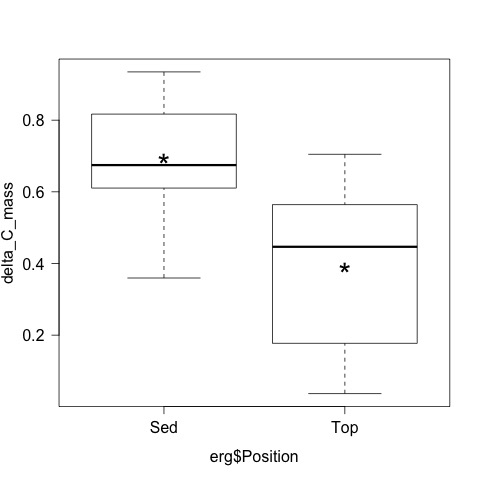
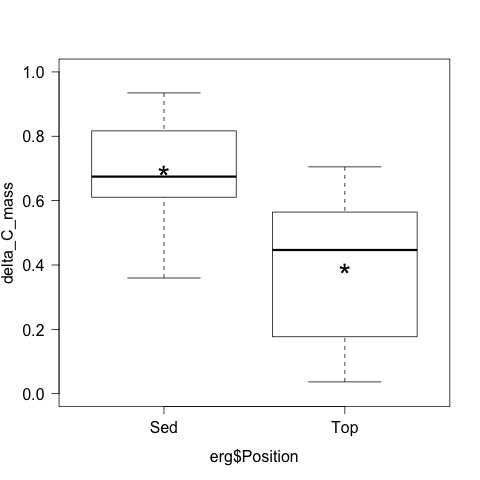
investigated the difference between AFDM loss and leaf C loss

diff --git a/lab_notebook/analysis/Ergosterol_analysis.md b/lab_notebook/analysis/Ergosterol_analysis.md
@@ -202,7 +202,8 @@ $Top
   1.920   2.315   2.580   2.677   3.125   3.540  0.5362904 
 
 ~~~~
- 
+
+
 The C mass of the leaf discs at the end of the experiment is estimated by the % C of the leaves after to incubation and the mass of the leaves after incubation
 
 To complete this calculation, I need a treatment level variable for the cn data.frame
@@ -211,8 +212,8 @@ To complete this calculation, I need a treatment level variable for the cn data.
 
 I now calculate mass of C for each treatment level:
 
-    disc_C_mass_final_TOP <- erg$AFDM[erg$Position == "Top"] * (cn$percC[cn.position == "top"]) / 100 # convert to proportion
-    disc_C_mass_final_SED <- erg$AFDM[erg$Position == "Sed"] * (cn$percC[cn.position == "sed"]) / 100
+    disc_C_mass_final_TOP <- erg$AFDM[erg$Position == "Top"] * ((cn$percC[cn.position == "top"]) / 100) # convert to proportion
+    disc_C_mass_final_SED <- erg$AFDM[erg$Position == "Sed"] * ((cn$percC[cn.position == "sed"]) / 100)
     disc_C_mass_final <- c(disc_C_mass_final_TOP, disc_C_mass_final_SED) * 1000 # convert to mg
 
     tapply(disc_C_mass_final, erg$Position, summary) 
@@ -287,7 +288,7 @@ Min. 1st Qu.  Median    Mean 3rd Qu.    Max.     SD
  
 $Sed
    Min. 1st Qu.  Median    Mean 3rd Qu.    Max. SD 
- 0.3595  0.6246  0.6746  0.6950  0.8129  0.9347 1598875 
+ 0.3595  0.6246  0.6746  0.6950  0.8129  0.9347 0.1598875 
 
 $Top
    Min. 1st Qu.  Median    Mean 3rd Qu.    Max. SD
@@ -316,7 +317,7 @@ mean in group Sed mean in group Top
 
  
     par(las = 1)
-    plot(delta_C_mass ~ erg$Position)
+    plot(delta_C_mass ~ erg$Position, ylim = c(0, 1))
     text(1, mean(delta_C_mass[erg$Position == "Sed"]), "*", cex = 2)
     text(2, mean(delta_C_mass[erg$Position == "Top"]), "*", cex = 2)
     dev.copy(jpeg, "./output/plots/delta_c_mass.jpg")
